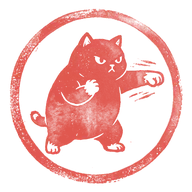
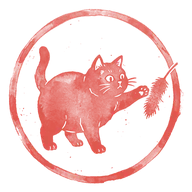
piano-pet: ねこパンチを猫じゃらしに手を出す絵柄にする
右端から差し出された猫じゃらしを前足で叩く構図に描き直す。
茎は輪の外周で切り、他の絵柄と輪の大きさをそろえる。

Refs #413

diff --git a/apps/piano-pet/index.html b/apps/piano-pet/index.html
@@ -16,8 +16,8 @@
       if (t === 'dark' || t === 'light') document.documentElement.dataset.theme = t;
     } catch (e) {}
   </script>
-  <link rel="stylesheet" href="css/style.css?v=bd62fb50">
-  <link rel="stylesheet" href="css/cat.css?v=bd62fb50">
+  <link rel="stylesheet" href="css/style.css?v=43549222">
+  <link rel="stylesheet" href="css/cat.css?v=43549222">
   <link href="https://fonts.googleapis.com/css2?family=Mochiy+Pop+One&family=Noto+Sans+JP:wght@400;500;700&display=swap" rel="stylesheet">
 </head>
 <body>
@@ -538,6 +538,6 @@
 
   </div>
 
-  <script type="module" src="js/app.js?v=bd62fb50"></script>
+  <script type="module" src="js/app.js?v=43549222"></script>
 </body>
 </html>

diff --git a/apps/piano-pet/sw.js b/apps/piano-pet/sw.js
@@ -1,14 +1,14 @@
 // ===== Service Worker（ネットワーク優先＋オフラインフォールバック） =====
-const CACHE = 'piano-pet-bd62fb50';
+const CACHE = 'piano-pet-43549222';
 
 const APP_SHELL = [
   './',
   './index.html',
-  './css/cat.css?v=bd62fb50',
-  './css/style.css?v=bd62fb50',
+  './css/cat.css?v=43549222',
+  './css/style.css?v=43549222',
   './js/account.js',
   './js/analytics.js',
-  './js/app.js?v=bd62fb50',
+  './js/app.js?v=43549222',
   './js/backup.js',
   './js/badges.js',
   './js/cat-image.js',
